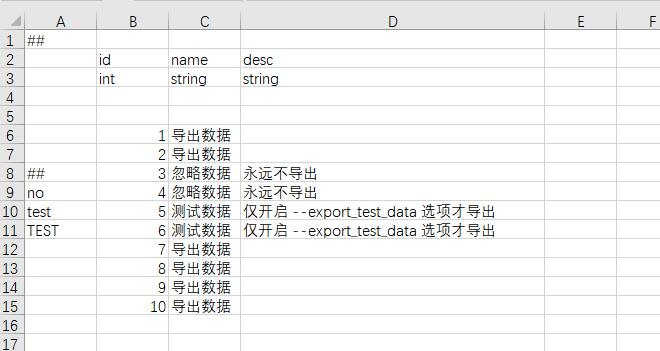
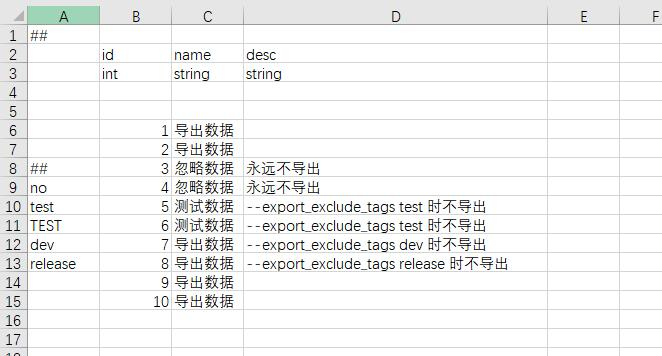
【删除】移除 cfg --export_test_data 选项，如果想不导出测试数据，使用 --export_exclude_tags test 【特性】新增 cfg --export_exclude_tags选项，支持过滤指定tags列表的数据

Changed region(s): [[0.0, 0.0, 1.0, 1.0], [0.9091, 0.7123, 0.9394, 0.9972], [0.9091, 0.0, 0.9394, 0.0285]]

diff --git a/src/Luban.Job.Cfg/Source/Utils/DataLoaderUtil.cs b/src/Luban.Job.Cfg/Source/Utils/DataLoaderUtil.cs
@@ -71,7 +71,7 @@ namespace Luban.Job.Cfg.Utils
         //   return CollectInputFilesAsync(agent, table.InputFiles, dataDir)
         //}
 
-        public static async Task GenerateLoadRecordFromFileTasksAsync(RemoteAgent agent, DefTable table, string dataDir, List<string> inputFiles2, bool exportTestData, List<Task<List<Record>>> tasks)
+        public static async Task GenerateLoadRecordFromFileTasksAsync(RemoteAgent agent, DefTable table, string dataDir, List<string> inputFiles2, List<Task<List<Record>>> tasks)
         {
             var inputFileInfos = await CollectInputFilesAsync(agent, inputFiles2, dataDir);
 
@@ -93,8 +93,7 @@ namespace Luban.Job.Cfg.Utils
                         file.OriginFile,
                         file.SheetName,
                         await agent.GetFromCacheOrReadAllBytesAsync(file.ActualFile, file.MD5),
-                        RenderFileUtil.IsExcelFile(file.ActualFile),
-                        exportTestData);
+                        RenderFileUtil.IsExcelFile(file.ActualFile));
 
                     FileRecordCacheManager.Ins.AddCacheLoadedRecords(table, file.MD5, file.SheetName, res);
 
@@ -103,10 +102,10 @@ namespace Luban.Job.Cfg.Utils
             }
         }
 
-        public static async Task LoadTableAsync(RemoteAgent agent, DefTable table, string dataDir, string patchName, string patchDataDir, bool exportTestData)
+        public static async Task LoadTableAsync(RemoteAgent agent, DefTable table, string dataDir, string patchName, string patchDataDir)
         {
             var mainLoadTasks = new List<Task<List<Record>>>();
-            var mainGenerateTask = GenerateLoadRecordFromFileTasksAsync(agent, table, dataDir, table.InputFiles, exportTestData, mainLoadTasks);
+            var mainGenerateTask = GenerateLoadRecordFromFileTasksAsync(agent, table, dataDir, table.InputFiles, mainLoadTasks);
 
             var patchLoadTasks = new List<Task<List<Record>>>();
 
@@ -116,7 +115,7 @@ namespace Luban.Job.Cfg.Utils
                 var patchInputFiles = table.GetPatchInputFiles(patchName);
                 if (patchInputFiles != null)
                 {
-                    patchGenerateTask = GenerateLoadRecordFromFileTasksAsync(agent, table, patchDataDir, patchInputFiles, exportTestData, patchLoadTasks);
+                    patchGenerateTask = GenerateLoadRecordFromFileTasksAsync(agent, table, patchDataDir, patchInputFiles, patchLoadTasks);
                 }
             }
 
@@ -146,7 +145,7 @@ namespace Luban.Job.Cfg.Utils
             s_logger.Trace("table:{name} record num:{num}", table.FullName, mainRecords.Count);
         }
 
-        public static async Task LoadCfgDataAsync(RemoteAgent agent, DefAssembly ass, string dataDir, string patchName, string patchDataDir, bool exportTestData)
+        public static async Task LoadCfgDataAsync(RemoteAgent agent, DefAssembly ass, string dataDir, string patchName, string patchDataDir)
         {
             var ctx = agent;
             List<DefTable> exportTables = ass.Types.Values.Where(t => t is DefTable ct && ct.NeedExport).Select(t => (DefTable)t).ToList();
@@ -160,7 +159,7 @@ namespace Luban.Job.Cfg.Utils
                 genDataTasks.Add(Task.Run(async () =>
                 {
                     long beginTime = TimeUtil.NowMillis;
-                    await LoadTableAsync(agent, table, dataDir, patchName, patchDataDir, exportTestData);
+                    await LoadTableAsync(agent, table, dataDir, patchName, patchDataDir);
                     long endTime = TimeUtil.NowMillis;
                     if (endTime - beginTime > 100)
                     {
@@ -171,10 +170,10 @@ namespace Luban.Job.Cfg.Utils
             await Task.WhenAll(genDataTasks.ToArray());
         }
 
-        public static List<Record> LoadCfgRecords(TBean recordType, string originFile, string sheetName, byte[] content, bool multiRecord, bool exportTestData)
+        public static List<Record> LoadCfgRecords(TBean recordType, string originFile, string sheetName, byte[] content, bool multiRecord)
         {
             // (md5,sheet,multiRecord,exportTestData) -> (valuetype, List<(datas)>)
-            var dataSource = DataSourceFactory.Create(originFile, sheetName, new MemoryStream(content), exportTestData);
+            var dataSource = DataSourceFactory.Create(originFile, sheetName, new MemoryStream(content));
             try
             {
                 if (multiRecord)

diff --git a/src/Luban.Job.Cfg/Source/Defs/CfgDefLoader.cs b/src/Luban.Job.Cfg/Source/Defs/CfgDefLoader.cs
@@ -478,7 +478,7 @@ namespace Luban.Job.Cfg.Defs
                 }
             })
             {
-                AssemblyBase = new DefAssembly("", null, true, Agent),
+                AssemblyBase = new DefAssembly("", null, new List<string>(), Agent),
             };
             defTableRecordType.PreCompile();
             defTableRecordType.Compile();
@@ -489,7 +489,7 @@ namespace Luban.Job.Cfg.Defs
             {
                 var source = new ExcelDataSource();
                 var bytes = await this.Agent.GetFromCacheOrReadAllBytesAsync(file.ActualFile, file.MD5);
-                var records = DataLoaderUtil.LoadCfgRecords(tableRecordType, file.OriginFile, null, bytes, true, false);
+                var records = DataLoaderUtil.LoadCfgRecords(tableRecordType, file.OriginFile, null, bytes, true);
                 foreach (var r in records)
                 {
                     DBean data = r.Data;
@@ -544,7 +544,7 @@ namespace Luban.Job.Cfg.Defs
                 }
             })
             {
-                AssemblyBase = new DefAssembly("", null, true, Agent),
+                AssemblyBase = new DefAssembly("", null, new List<string>(), Agent),
             };
             defTableRecordType.PreCompile();
             defTableRecordType.Compile();
@@ -555,7 +555,7 @@ namespace Luban.Job.Cfg.Defs
             {
                 var source = new ExcelDataSource();
                 var bytes = await this.Agent.GetFromCacheOrReadAllBytesAsync(file.ActualFile, file.MD5);
-                var records = DataLoaderUtil.LoadCfgRecords(tableRecordType, file.OriginFile, null, bytes, true, false);
+                var records = DataLoaderUtil.LoadCfgRecords(tableRecordType, file.OriginFile, null, bytes, true);
 
                 PEnum curEnum = null;
                 foreach (var r in records)
@@ -599,7 +599,7 @@ namespace Luban.Job.Cfg.Defs
             var inputFileInfos = await DataLoaderUtil.CollectInputFilesAsync(this.Agent, this._importExcelBeanFiles, dataDir);
 
 
-            var ass = new DefAssembly("", null, true, Agent);
+            var ass = new DefAssembly("", null, new List<string>(), Agent);
 
             var defBeanFieldType = new DefBean(new CfgBean()
             {
@@ -669,7 +669,7 @@ namespace Luban.Job.Cfg.Defs
             {
                 var source = new ExcelDataSource();
                 var bytes = await this.Agent.GetFromCacheOrReadAllBytesAsync(file.ActualFile, file.MD5);
-                var records = DataLoaderUtil.LoadCfgRecords(tableRecordType, file.OriginFile, null, bytes, true, false);
+                var records = DataLoaderUtil.LoadCfgRecords(tableRecordType, file.OriginFile, null, bytes, true);
 
                 foreach (var r in records)
                 {

diff --git a/src/Luban.Job.Cfg/Source/Defs/DefAssembly.cs b/src/Luban.Job.Cfg/Source/Defs/DefAssembly.cs
@@ -19,19 +19,6 @@ namespace Luban.Job.Cfg.Defs
 
         public List<Record> FinalRecords { get; set; }
 
-        private List<Record> _notTestRecords;
-        public List<Record> NotTestRecords
-        {
-            get
-            {
-                if (_notTestRecords == null)
-                {
-                    _notTestRecords = FinalRecords.Where(r => !r.IsTest).ToList();
-                }
-                return _notTestRecords;
-            }
-        }
-
         public Dictionary<DType, Record> FinalRecordMap { get; set; }
 
         public TableDataInfo(List<Record> mainRecords, List<Record> patchRecords)
@@ -50,17 +37,17 @@ namespace Luban.Job.Cfg.Defs
         public Service CfgTargetService { get; private set; }
 
         private readonly string _patchName;
-        private readonly bool _exportTestData;
+        private readonly List<string> _excludeTags;
 
         public Patch TargetPatch { get; private set; }
 
         public TimeZoneInfo TimeZone { get; }
 
-        public DefAssembly(string patchName, TimeZoneInfo timezone, bool exportTestData, RemoteAgent agent)
+        public DefAssembly(string patchName, TimeZoneInfo timezone, List<string> excludeTags, RemoteAgent agent)
         {
             this._patchName = patchName;
             this.TimeZone = timezone;
-            this._exportTestData = exportTestData;
+            this._excludeTags = excludeTags;
             this.Agent = agent;
         }
 
@@ -126,7 +113,19 @@ namespace Luban.Job.Cfg.Defs
         public List<Record> GetTableExportDataList(DefTable table)
         {
             var tableDataInfo = _recordsByTables[table.FullName];
-            return _exportTestData ? tableDataInfo.FinalRecords : tableDataInfo.NotTestRecords;
+            if (_excludeTags.Count == 0)
+            {
+                return tableDataInfo.FinalRecords;
+            }
+            else
+            {
+                var finalRecords = tableDataInfo.FinalRecords.Where(r => r.IsNotFiltered(_excludeTags)).ToList();
+                if (table.IsOneValueTable && finalRecords.Count != 1)
+                {
+                    throw new Exception($"配置表 {table.FullName} 是单值表 mode=one,但数据个数:{finalRecords.Count} != 1");
+                }
+                return finalRecords;
+            }
         }
 
         public TableDataInfo GetTableDataInfo(DefTable table)

diff --git a/src/Luban.Job.Cfg/Source/ValidatorContext.cs b/src/Luban.Job.Cfg/Source/ValidatorContext.cs
@@ -201,17 +201,17 @@ namespace Luban.Job.Cfg
             {
                 case ETableMode.ONE:
                 {
-                    if (mainRecords.Count != 1)
-                    {
-                        throw new Exception($"配置表 {table.FullName} 是单值表 mode=one,但主文件数据个数:{mainRecords.Count} != 1");
-                    }
-                    if (patchRecords != null && patchRecords.Count != 1)
-                    {
-                        throw new Exception($"配置表 {table.FullName} 是单值表 mode=one,但分支文件数据个数:{patchRecords.Count} != 1");
-                    }
+                    //if (mainRecords.Count != 1)
+                    //{
+                    //    throw new Exception($"配置表 {table.FullName} 是单值表 mode=one,但主文件数据个数:{mainRecords.Count} != 1");
+                    //}
+                    //if (patchRecords != null && patchRecords.Count != 1)
+                    //{
+                    //    throw new Exception($"配置表 {table.FullName} 是单值表 mode=one,但分支文件数据个数:{patchRecords.Count} != 1");
+                    //}
                     if (patchRecords != null)
                     {
-                        mainRecords[0] = patchRecords[0];
+                        mainRecords = patchRecords;
                     }
                     break;
                 }

diff --git a/src/Luban.Job.Cfg/Source/JobController.cs b/src/Luban.Job.Cfg/Source/JobController.cs
@@ -140,7 +140,8 @@ namespace Luban.Job.Cfg
 
                 TimeZoneInfo timeZoneInfo = string.IsNullOrEmpty(args.TimeZone) ? null : TimeZoneInfo.FindSystemTimeZoneById(args.TimeZone);
 
-                var ass = new DefAssembly(args.PatchName, timeZoneInfo, args.ExportTestData, agent)
+                var excludeTags = args.ExportExcludeTags.Split(',').Select(t => t.Trim().ToLowerInvariant()).Where(t => !string.IsNullOrEmpty(t)).ToList();
+                var ass = new DefAssembly(args.PatchName, timeZoneInfo, excludeTags, agent)
                 {
                     UseUnityVectors = args.UseUnityVectors
                 };
@@ -166,7 +167,7 @@ namespace Luban.Job.Cfg
                         hasLoadCfgData = true;
                         var timer = new ProfileTimer();
                         timer.StartPhase("load config data");
-                        await DataLoaderUtil.LoadCfgDataAsync(agent, ass, args.InputDataDir, args.PatchName, args.PatchInputDataDir, args.ExportTestData);
+                        await DataLoaderUtil.LoadCfgDataAsync(agent, ass, args.InputDataDir, args.PatchName, args.PatchInputDataDir);
                         timer.EndPhaseAndLog();
 
                         if (needL10NTextConvert)

diff --git a/src/Luban.Job.Cfg/Source/DataSources/DataSourceFactory.cs b/src/Luban.Job.Cfg/Source/DataSources/DataSourceFactory.cs
@@ -18,7 +18,7 @@ namespace Luban.Job.Cfg.DataSources
             ".bin",
         };
 
-        public static AbstractDataSource Create(string url, string sheetName, Stream stream, bool exportTestData)
+        public static AbstractDataSource Create(string url, string sheetName, Stream stream)
         {
             try
             {
@@ -36,7 +36,7 @@ namespace Luban.Job.Cfg.DataSources
                     case "yml": source = new Yaml.YamlDataSource(); break;
                     default: throw new Exception($"不支持的文件类型:{url}");
                 }
-                source.Load(url, sheetName, stream, exportTestData);
+                source.Load(url, sheetName, stream);
                 return source;
             }
             catch (DataCreateException)

diff --git a/src/Luban.Job.Cfg/Source/GenArgs.cs b/src/Luban.Job.Cfg/Source/GenArgs.cs
@@ -32,11 +32,8 @@ namespace Luban.Job.Cfg
         [Option('s', "service", Required = true, HelpText = "service")]
         public string Service { get; set; }
 
-        [Option("export_test_data", Required = false, HelpText = "export test data")]
-        public bool ExportTestData { get; set; } = false;
-
-        [Option("export_tag_filter", Required = false, HelpText = "export tag filter")]
-        public string ExportTagFilter { get; set; } = "";
+        [Option("export_exclude_tags", Required = false, HelpText = "export exclude tags. default export all tags")]
+        public string ExportExcludeTags { get; set; } = "";
 
         [Option('t', "l10n_timezone", Required = false, HelpText = "timezone")]
         public string TimeZone { get; set; }

diff --git a/src/Luban.Job.Cfg/Source/Datas/Record.cs b/src/Luban.Job.Cfg/Source/Datas/Record.cs
@@ -13,7 +13,14 @@ namespace Luban.Job.Cfg.Datas
 
         public int Index { get; set; }
 
-        public bool IsTest => Tags != null && DataUtil.IsTestTag(Tags);
+        public bool IsNotFiltered(List<string> excludeTags)
+        {
+            if (Tags == null)
+            {
+                return true;
+            }
+            return Tags.TrueForAll(t => !excludeTags.Contains(t));
+        }
 
         public Record(DBean data, string source, List<string> tags)
         {

diff --git a/src/Luban.Job.Cfg/Source/l10n/TextTable.cs b/src/Luban.Job.Cfg/Source/l10n/TextTable.cs
@@ -66,7 +66,7 @@ namespace Luban.Job.Cfg.l10n
 
         public void LoadFromFile(string fileName, byte[] bytes)
         {
-            var records = DataLoaderUtil.LoadCfgRecords(_textRowType, fileName, null, bytes, true, false);
+            var records = DataLoaderUtil.LoadCfgRecords(_textRowType, fileName, null, bytes, true);
             foreach (var r in records)
             {
                 //s_logger.Info("== read text:{}", r.Data);

diff --git a/src/Luban.Job.Cfg/Source/DataSources/Yaml/YamlDataSource.cs b/src/Luban.Job.Cfg/Source/DataSources/Yaml/YamlDataSource.cs
@@ -13,7 +13,7 @@ namespace Luban.Job.Cfg.DataSources.Yaml
     class YamlDataSource : AbstractDataSource
     {
         private YamlMappingNode _root;
-        public override void Load(string rawUrl, string sheetName, Stream stream, bool exportDebugData)
+        public override void Load(string rawUrl, string sheetName, Stream stream)
         {
             var ys = new YamlStream();
             ys.Load(new StreamReader(stream));

diff --git a/src/Luban.Job.Cfg/Source/DataSources/Lua/LuaDataSource.cs b/src/Luban.Job.Cfg/Source/DataSources/Lua/LuaDataSource.cs
@@ -17,7 +17,7 @@ namespace Luban.Job.Cfg.DataSources.Lua
         private LuaGlobal _env;
         private LuaTable _dataTable;
 
-        public override void Load(string rawUrl, string sheetName, Stream stream, bool exportDebugData)
+        public override void Load(string rawUrl, string sheetName, Stream stream)
         {
             RawUrl = rawUrl;
             _env = LuaManager.CreateEnvironment();
